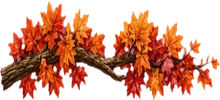
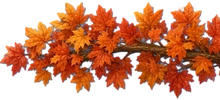
Rooted low-branch trees, no obstacle outlines, dens sit on a far verge
- The five low-branch obstacles now hang from rooted trees (Don's art), anchored
  with the obstacle; the ground is made level under each tree
- Removed the dark rim behind every obstacle
- The ground strip has a far verge behind the trail; dens are decals on it that
  move with the ground, follow the hills, tilt, and are cut off at the hole

Claude-Session: https://claude.ai/code/session_01HdVUKY2w4FX6Gc1gzUEQzS

diff --git a/src/scenes/GameScene.ts b/src/scenes/GameScene.ts
@@ -4,7 +4,7 @@ import { paintProps } from '../art/props';
 import { paintCritters } from '../art/critters';
 import { paintCritters2 } from '../art/critters2';
 import { DEN_W, denFiles, paintDen, paintProps2 } from '../art/props2';
-import { artScale, resized, resOf, rimOf } from '../art/paint';
+import { artScale, resized, resOf } from '../art/paint';
 import { artBox, markArt, queueArt } from '../art/artFiles';
 import { GROUND_COL, GROUND_TILE, GROUND_TOP, paintGround } from '../art/ground';
 import { FG_H, FG_SPEED, paintForeground } from '../art/foreground';
@@ -76,7 +76,10 @@ const SWIPE_PX = 30; // screen pixels
 /** Obstacle hit areas as a share of the picture (see addObstacle). */
 const HITBOX = { width: 0.72, height: 0.8 };
 /** Dens sit on the hillside just behind the trail, a little smaller (farther away). */
-const DEN_BASE_UP = 16;
+/** A den's picture height in game px at a scale (its texture's height over its resolution). */
+const DEN_H_OF = (img: Phaser.GameObjects.Image, scale: number): number => (img.displayHeight / scale);
+/** The visible bottom of a den (its hole's front edge) sits this far behind (above) the trail line. */
+const DEN_SINK = 3;
 const DEN_SCALE = 1.1;
 /** How much the painted scenery fades toward the trail, so things on the trail stand out. */
 const TRAIL_HAZE = 0.28;
@@ -128,7 +131,7 @@ const FLYERS: Partial<Record<GawkKind, { texture: string; y: number; ms: number;
  * ground, and how to beat it. Things to slide under can come with a tree
  * (a trunk and a treetop) or with poles holding them up.
  */
-type Decor = { tree: string; trunkTint?: number } | { poles: number[]; tint: number; width: number; height: number; pole?: string };
+type Decor = { tree: string } | { poles: number[]; tint: number; width: number; height: number; pole?: string };
 /** Water lies flat on the trail: drawn a little below the ground line, with a thin hit band at the line. */
 const FLAT_HIT_H = 10;
 /**
@@ -137,6 +140,24 @@ const FLAT_HIT_H = 10;
  * gets no shadow.
  */
 type ObstacleDef = { lift: number; slide: boolean; decor?: Decor; flat?: boolean; hit?: { width: number; height: number }; ground?: boolean };
+/**
+ * The rooted trees that hold up the low branches (from trees.json). The tree
+ * shares the obstacle's anchor (x, ground - lift); the obstacle picture is an
+ * exact copy of the tree's limb there, so they line up with no seam. The trunk
+ * stands about 100 px right of the anchor.
+ */
+const TREE_ORIGIN: Record<string, [number, number]> = {
+  'tree-park': [0.2865, 0.6445],
+  'tree-snow': [0.2933, 0.6667],
+  'tree-autumn': [0.2681, 0.6893],
+  'tree-blossom': [0.3025, 0.5848],
+  'tree-jungle': [0.2821, 0.5955],
+};
+/** Trees spawn this much farther right, so the ground can level off under them off screen. */
+const TREE_LEAD = 320;
+/** The stretch of ground under a tree that's made level, from its anchor. */
+const TREE_FLAT: [number, number] = [-70, 170];
+
 /** The fences cross the trail at an angle, which leaves clear corners at the top: a smaller hit area. */
 const FENCE: ObstacleDef = { lift: 34, slide: false, hit: { width: 0.55, height: 0.6 }, ground: true };
 const OBSTACLES: Record<ObstacleKind, ObstacleDef> = {
@@ -147,7 +168,7 @@ const OBSTACLES: Record<ObstacleKind, ObstacleDef> = {
   rock: { lift: 19, slide: false },
   sandcastle: { lift: 26, slide: false },
   driftwood: { lift: 13, slide: false },
-  branch: { lift: 65, slide: true, decor: { tree: 'canopy' } },
+  branch: { lift: 65, slide: true, decor: { tree: 'tree-park' } },
   umbrella: { lift: 66, slide: true, decor: { poles: [0], tint: 0xffffff, width: 6, height: 90 } },
   trashcan: { lift: 23, slide: false },
   hydrant: { lift: 19, slide: false },
@@ -157,10 +178,10 @@ const OBSTACLES: Record<ObstacleKind, ObstacleDef> = {
   creek: { lift: -8, slide: false, flat: true },
   snowman: { lift: 29, slide: false },
   sled: { lift: 13, slide: false },
-  snowbranch: { lift: 65, slide: true, decor: { tree: 'snowcanopy', trunkTint: 0x8a7a70 } },
+  snowbranch: { lift: 65, slide: true, decor: { tree: 'tree-snow' } },
   haybale: { lift: 20, slide: false },
   pumpkin: { lift: 17, slide: false },
-  autumnbranch: { lift: 65, slide: true, decor: { tree: 'canopy-autumn' } },
+  autumnbranch: { lift: 65, slide: true, decor: { tree: 'tree-autumn' } },
   cactus: { lift: 26, slide: false },
   tumbleweed: { lift: 19, slide: false },
   arch: { lift: 64, slide: true, decor: { poles: [-55, 55], tint: 0xffffff, width: 20, height: 84, pole: 'arch-leg' } },
@@ -168,8 +189,8 @@ const OBSTACLES: Record<ObstacleKind, ObstacleDef> = {
   clothesline: { lift: 64, slide: true, decor: { poles: [-62, 62], tint: 0xffffff, width: 6, height: 90, pole: 'wood-post' } },
   lantern: { lift: 23, slide: false },
   pond: { lift: -8, slide: false, flat: true },
-  blossombranch: { lift: 65, slide: true, decor: { tree: 'canopy-blossom' } },
-  vines: { lift: 68, slide: true, decor: { tree: 'canopy-jungle' } },
+  blossombranch: { lift: 65, slide: true, decor: { tree: 'tree-blossom' } },
+  vines: { lift: 68, slide: true, decor: { tree: 'tree-jungle' } },
   crate: { lift: 20, slide: false },
   barrel: { lift: 22, slide: false },
   banner: { lift: 63, slide: true, decor: { poles: [-62, 62], tint: 0xffffff, width: 5, height: 90, pole: 'pier-pole' } },
@@ -246,13 +267,15 @@ export class GameScene extends Phaser.Scene {
   private onLedge?: Ledge;
   private prevBottom = 0;
   private nextClimbAt = Infinity;
-  private flats: { from: number; to: number }[] = [];
+  /** Stretches where the hills are eased to a level (GROUND_Y unless `y` is given) */
+  private flats: { from: number; to: number; y?: number }[] = [];
 
   // Dig spots and tunnels
   private nextDigAt = Infinity;
   private digSpot?: { img: Img; label: Phaser.GameObjects.Text; done: boolean };
   private tunnel?: { endAt: number; strip: Phaser.GameObjects.TileSprite; golden: boolean };
   private fgLayer?: Phaser.GameObjects.TileSprite;
+  private dens: Phaser.GameObjects.Container[] = [];
   private skyIsDark = false;
 
   private distraction?: Distraction;
@@ -337,6 +360,7 @@ export class GameScene extends Phaser.Scene {
     this.digSpot = undefined;
     this.tunnel = undefined;
     this.fgLayer = undefined;
+    this.dens = [];
     this.nextClimbAt = this.level.climb ? this.level.climb.firstM * SCORE.pixelsPerMeter : Infinity;
 
     // Painted props go first; the flat-shape art fills in whatever they don't cover.
@@ -837,6 +861,7 @@ export class GameScene extends Phaser.Scene {
     const dx = this.speed * dt;
     this.distancePx += dx;
     this.moveLedges(dx);
+    this.moveDens(dx);
     this.updateGreet(dx);
     this.updateDig(dx);
     if (this.tut) this.checkTutorial();
@@ -890,7 +915,7 @@ export class GameScene extends Phaser.Scene {
     for (const f of this.flats) {
       if (wx <= f.from || wx >= f.to) continue;
       const t = Math.min(1, (wx - f.from) / CLIMB.flatRamp, (f.to - wx) / CLIMB.flatRamp);
-      return g + (GROUND_Y - g) * t * t * (3 - 2 * t);
+      return g + ((f.y ?? GROUND_Y) - g) * t * t * (3 - 2 * t);
     }
     return g;
   }
@@ -1057,6 +1082,7 @@ export class GameScene extends Phaser.Scene {
 
   private spawnNext(): void {
     const x = GAME_WIDTH + 60;
+    this.flats = this.flats.filter((f) => f.to > this.distancePx - 200);
     const remainingPx = this.level.goalMeters * SCORE.pixelsPerMeter - this.distancePx;
     if (this.tunnel) {
       this.spawnInTunnel(x);
@@ -1075,7 +1101,16 @@ export class GameScene extends Phaser.Scene {
       return;
     }
     const kind = this.pickObstacle();
-    this.placeObstacle(x, kind);
+    const d = OBSTACLES[kind].decor;
+    if (d && 'tree' in d) {
+      // A tree: placed a little farther out, with the ground made level under its roots
+      const tx = x + TREE_LEAD;
+      const level = groundYAt(this.level, this.distancePx + tx + 100);
+      this.flats.push({ from: this.distancePx + tx + TREE_FLAT[0] - CLIMB.flatRamp, to: this.distancePx + tx + TREE_FLAT[1] + CLIMB.flatRamp, y: level });
+      this.placeObstacle(tx, kind);
+    } else {
+      this.placeObstacle(x, kind);
+    }
     if (Math.random() < SPAWN.treatChance) this.spawnTreats(x + 220);
 
     // Gaps grow with speed so the game stays fair as it speeds up
@@ -1091,12 +1126,9 @@ export class GameScene extends Phaser.Scene {
     const o = OBSTACLES[kind];
     const d = o.decor;
     if (d && 'tree' in d) {
-      // Low branch hanging from a tree. The trunk stops just above the pet's
-      // head, so it can slide under the tree.
-      const trunk = this.art(this.add.image(x + 40, gy - 75, 'trunk').setOrigin(0.5, 1).setDepth(0.95));
-      if (d.trunkTint !== undefined) trunk.setTint(d.trunkTint);
-      this.addDecor(trunk);
-      this.addDecor(this.art(this.add.image(x + 40, gy - 400, d.tree).setDepth(0.96)));
+      // A tree beside the trail with its low limb reaching over the path
+      const [ox, oy] = TREE_ORIGIN[d.tree] ?? [0.29, 0.65];
+      if (this.textures.exists(d.tree)) this.addDecor(this.art(this.add.image(x, gy - o.lift, d.tree).setOrigin(ox, oy).setDepth(0.95)));
     } else if (d) {
       // An awning, a stone arch, a clothesline or a banner held up on poles
       for (const dx of d.poles) {
@@ -1129,10 +1161,6 @@ export class GameScene extends Phaser.Scene {
       // lies flat, so it tilts with the hill under it
       r.setRotation(Math.atan2(this.groundAt(x + 30) - this.groundAt(x - 30), 60));
     } else {
-      // a dark edge behind it, so it stands out from the painted scenery
-      const rim = this.art(this.add.image(x, y, rimOf(this, key)).setDepth(0.98));
-      this.addDecor(rim);
-      spin.push(rim);
     }
     if (key === 'tumbleweed') this.tweens.add({ targets: spin, angle: -360, duration: 900, repeat: -1 });
     const body = r.body as Body;
@@ -1318,18 +1346,20 @@ export class GameScene extends Phaser.Scene {
       this.tweens.add({ targets: b, x: -60, duration: 5000, onComplete: () => b.destroy() });
       this.tweens.add({ targets: b, y: 250, duration: 450, yoyo: true, repeat: -1, ease: 'Sine.easeInOut' });
     } else {
-      // A den on the hillside behind the trail, drifting by slower than the
-      // trail (it's farther away). The critter pops up out of the hole: it's
-      // cut off at the hole's lower edge, and the mound's lip sits in front.
+      // A den dug into the verge just behind the trail. It moves with the
+      // ground, follows the hills and tilts with them. The mound is cut off at
+      // the hole's front edge, so none of it hangs over the trail. The critter
+      // pops up out of the hole, cut off at its lower edge, behind the lip.
       const x = GAME_WIDTH + 60;
-      const base = this.groundAt(x) - DEN_BASE_UP;
       const d = paintDen(this, this.level.id, this.level.theme);
-      const den = this.art(this.add.image(x, base, d.back).setOrigin(0.5, 1).setDepth(0.5), DEN_SCALE);
-      const front = this.art(this.add.image(x, base, d.lip).setOrigin(0.5, 1).setDepth(0.6), DEN_SCALE);
-      const holeY = base - d.holeUp * DEN_SCALE;
+      const back = this.art(this.add.image(0, 0, d.back).setOrigin(0.5, 1), DEN_SCALE);
+      const front = this.art(this.add.image(0, 0, d.lip).setOrigin(0.5, 1), DEN_SCALE);
+      // cut the bottom of both pictures off at the hole's front edge (in texture pixels)
+      const cutUp = d.holeUp - d.holeHalf;
+      for (const img of [back, front]) img.setCrop(0, 0, img.width, img.height - (cutUp * img.height) / DEN_H_OF(img, DEN_SCALE));
+      const holeY = -d.holeUp * DEN_SCALE;
       const holeBottom = holeY + d.holeHalf * DEN_SCALE;
-      const holeX = x + (d.holeX - DEN_W / 2) * DEN_SCALE;
-      const critter = this.art(this.add.image(holeX, holeY + 26, 'gopher').setDepth(0.55));
+      const critter = this.art(this.add.image((d.holeX - DEN_W / 2) * DEN_SCALE, holeY + 26, 'gopher'));
       const crop = () => {
         // how much of it is above the hole's lower edge, in game pixels, then in the texture's
         const h = Math.min(critter.displayHeight, holeBottom - (critter.y - critter.displayHeight / 2));
@@ -1337,8 +1367,11 @@ export class GameScene extends Phaser.Scene {
         if (h > 0.5) critter.setCrop(0, 0, critter.width, h / critter.scaleY);
       };
       crop();
-      this.tweens.add({ targets: [den, front, critter], x: `-=${x + 80}`, duration: 6000, onComplete: () => (den.destroy(), front.destroy(), critter.destroy()) });
-      this.tweens.add({ targets: critter, y: holeY - 6, duration: 350, yoyo: true, hold: 500, repeat: 5, delay: 300, onUpdate: crop });
+      const den = this.add.container(x, 0, [back, critter, front]).setDepth(0.92);
+      den.setData('cut', cutUp * DEN_SCALE);
+      this.dens.push(den);
+      this.placeDen(den);
+      this.tweens.add({ targets: critter, y: holeY - 6, duration: 350, yoyo: true, hold: 500, repeat: -1, repeatDelay: 250, delay: 300, onUpdate: crop });
     }
 
     this.warn('gawk', '?', DISTRACTION.gawkWarnMs, () => {
@@ -1661,6 +1694,8 @@ export class GameScene extends Phaser.Scene {
         return true;
       });
       for (const g of [this.obstacles, this.treats, this.decor]) g.clear(true, true);
+      this.dens.forEach((den) => (this.tweens.killTweensOf(den.list), den.destroy()));
+      this.dens = [];
       this.fgLayer?.setVisible(false);
       this.weather.forEach((w) => w.setVisible(false));
       this.setHudDark(true);
@@ -1737,6 +1772,28 @@ export class GameScene extends Phaser.Scene {
     const body = t.body as Body;
     body.setAllowGravity(false);
     body.setVelocityX(-this.speed);
+  }
+
+  /** Dens move with the ground, sit on it and tilt with the hill. */
+  private moveDens(dx: number): void {
+    if (!this.dens.length) return;
+    this.dens = this.dens.filter((den) => {
+      den.x -= dx;
+      if (den.x < -80) {
+        this.tweens.killTweensOf(den.list);
+        den.destroy();
+        return false;
+      }
+      this.placeDen(den);
+      return true;
+    });
+  }
+
+  private placeDen(den: Phaser.GameObjects.Container): void {
+    const slope = Math.atan2(this.groundAt(den.x + 30) - this.groundAt(den.x - 30), 60);
+    den.setRotation(slope);
+    // the container's origin is the pictures' uncut bottom: lower it by the cut, so the hole's front edge sits on the line
+    den.y = this.groundAt(den.x) - DEN_SINK + (den.getData('cut') as number);
   }
 
   /** Ledges and their pillars move with the trail (by hand: they're wider than the usual clean-up allows). */
@@ -2297,7 +2354,7 @@ function propKeys(kinds: ObstacleKind[]): string[] {
   for (const kind of kinds) {
     keys.push(kind);
     const d = (OBSTACLES as Record<string, ObstacleDef | undefined>)[kind]?.decor;
-    if (d && 'tree' in d) keys.push('trunk', d.tree);
+    if (d && 'tree' in d) keys.push(d.tree);
     else if (d) keys.push(d.pole ?? 'umbrella-pole');
   }
   return keys;

diff --git a/src/art/ground.ts b/src/art/ground.ts
@@ -10,9 +10,15 @@ import { blade, circle, css, ellipse, grain, leaf, lin, mix, paint, rad, rrect, 
 
 export const GROUND_TILE = 1024;
 /** Height of the strip; enough to reach the bottom of the screen from the highest hill. */
-export const GROUND_TEX_H = 190;
-/** Rows above the ground line, for grass blades and drifts that stick up. */
-export const GROUND_TOP = 10;
+export const GROUND_TEX_H = 216;
+/**
+ * Rows above the ground line: a strip of far verge behind the trail (where the
+ * den holes sit), fading into the painted scenery at its top, plus room for
+ * grass blades and drifts that stick up.
+ */
+export const GROUND_TOP = 36;
+/** How much of the rows above the line is solid verge (the rest is the fade). */
+const VERGE_SOLID = 16;
 /** Width of each column the strip is laid down in (narrow, so hills look smooth, not stepped). */
 export const GROUND_COL = 4;
 
@@ -406,9 +412,43 @@ function line(c: Ctx, pts: [number, number][] | ((x: number) => number), color: 
 }
 
 /** Paints the level's ground strip (once) and cuts it into columns. Returns its texture key. */
+/**
+ * The far verge just behind the trail: grass (or sand, or snow) with a little
+ * earth showing through, fading out at the top so there's no hard line
+ * against the painted scenery. The street and the pier have none.
+ */
+function paintVerge(c: Ctx, t: Theme): void {
+  if (t.tufts === 'street' || t.tufts === 'boards') return;
+  const top = S - VERGE_SOLID;
+  const base = t.tufts === 'snow' ? shade(t.grass, 0.3) : t.grass;
+  // a soft fade in, then solid down to the ground line
+  c.fillStyle = lin(c, 0, 0, 0, S + 2, [[0, base, 0], [(top - 2) / (S + 2), base, 0.85], [1, shade(base, -0.08)]]);
+  c.fillRect(0, 0, W, S + 2);
+  const r = seeded(77);
+  // patches of earth showing through, and darker tufts
+  for (let i = 0; i < 70; i++) {
+    const x = r() * W;
+    const y = top + 2 + r() * (VERGE_SOLID - 2);
+    const rx = 4 + r() * 10;
+    wrapX(x, rx + 2, (px) => {
+      ellipse(c, px, y, rx, 1.4 + r() * 1.6);
+      c.fillStyle = css(r() < 0.55 ? t.dirt : t.grassDark, 0.28 + r() * 0.2);
+      c.fill();
+    });
+  }
+  if (t.tufts === 'grass') {
+    for (let i = 0; i < 260; i++) {
+      const x = r() * W;
+      const y = top + 3 + r() * (VERGE_SOLID + 2);
+      wrapX(x, 4, (px) => blade(c, px, y, 2 + r() * 4, (r() - 0.5) * 3, r() < 0.5 ? t.grassDark : shade(t.grass, 0.12), 1, 0.8));
+    }
+  }
+}
+
 export function paintGround(scene: Phaser.Scene, levelId: number, t: Theme): string {
   const key = `ground-${levelId}`;
   const tex = paint(scene, key, W, H, (c) => {
+    paintVerge(c, t);
     if (t.tufts === 'sand') paintSand(c, t);
     else if (t.tufts === 'snow') paintSnow(c, t);
     else if (t.tufts === 'street') paintStreet(c, t);

diff --git a/src/art/artFiles.ts b/src/art/artFiles.ts
@@ -16,6 +16,7 @@ const PROPS = [
   'clothesline', 'crate', 'creek', 'driftwood', 'fence', 'fence-rail', 'fish', 'haybale', 'hydrant', 'lantern',
   'log', 'pier-pole', 'pond', 'puddle', 'pumpkin', 'rock', 'sandcastle', 'sign', 'sled',
   'snowbranch', 'snowcanopy', 'snowman', 'stump', 'trashcan', 'trough', 'trunk', 'tumbleweed',
+  'tree-park', 'tree-snow', 'tree-autumn', 'tree-blossom', 'tree-jungle',
   'umbrella', 'umbrella-pole', 'vines', 'wood-post',
 ];
 /** Two-frame critters: -0 is wings up (or the arm up), -1 is down. */

diff --git a/docs/art-specs.md b/docs/art-specs.md
@@ -67,3 +67,7 @@ Each earth has two pictures: the mound behind the critter and a lip in front of 
 ## Painted in code (no file yet)
 
 - **Climbing ledges:** `ledge-rock-<width>`, `ledge-sandstone-<width>`, plus the pillars `ledge-pillar-rock` and `ledge-pillar-sandstone` (`src/art/ledges.ts`). Ledges come in many widths, so painted ones would be a left end, a middle that repeats, and a right end. The standing surface sits 4 game px below the top of the picture.
+
+## Low-branch trees (Nov 23)
+
+Each low branch now hangs from a rooted tree beside the trail (`tree-park`, `tree-snow`, `tree-autumn`, `tree-blossom`, `tree-jungle` in `public/art/props/`). The tree uses the obstacle's anchor, with the origins in `TREE_ORIGIN` in `GameScene.ts` (from trees.json). The ground is made level under each tree. The obstacles no longer get a dark outline. Dens are now decals on a far verge strip just behind the trail (`GROUND_TOP` 36 in `src/art/ground.ts`).
